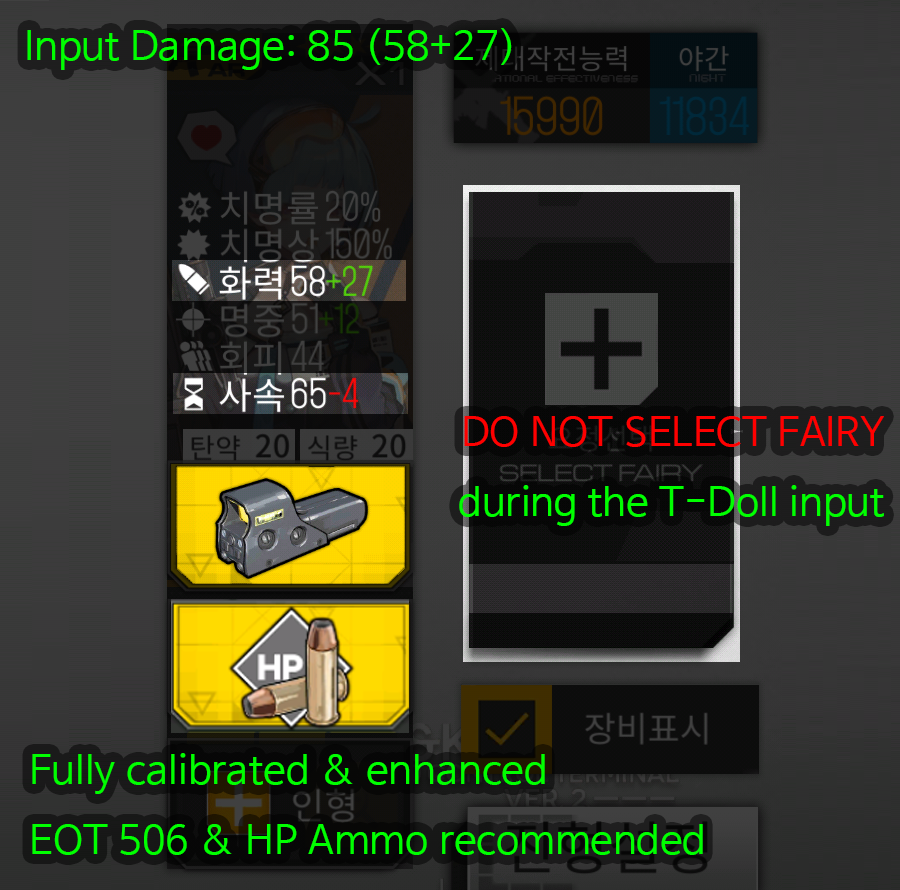
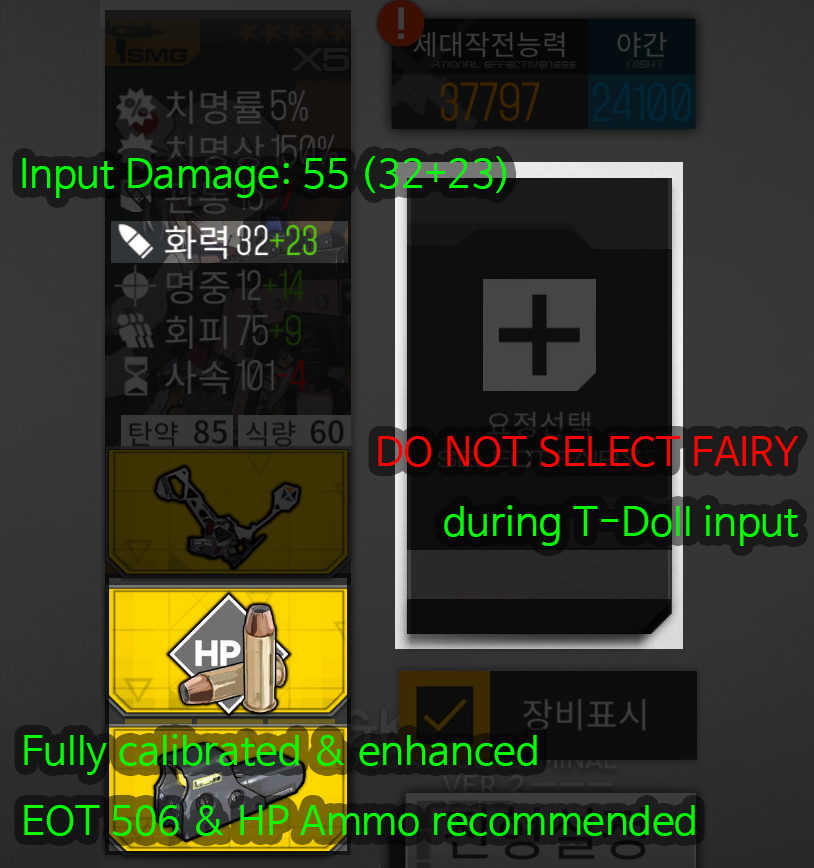
Vector_ADD_HELP

diff --git a/lang/lang_vec.js b/lang/lang_vec.js
@@ -39,7 +39,11 @@ var languagepack_vec =
                 "q1":"Q. 진형이 ㄷ 모양인가?",
                 "a1":"A. HG, SMG, AR, RF 배치 시, ㄷ 진형으로 고정<br>SG MG RF(미채 착용) 배치 시, p/b 진형도 가능<br>",
                 "q2":"Q. 전투 자동스킬을 켰는가?",
-                "a2":"A. AUTO 자동스킬 활성화를 안하면 벡터가 화염병을 던지지 않는다<br>"
+                "a2":"A. AUTO 자동스킬 활성화를 안하면 벡터가 화염병을 던지지 않는다<br>",
+                "q3":"Q. 화력 버프를 가장 쉽게 줄 수 있는 방법은?",
+                "a3":"A. 흥국이(40%)/개조흥국이(45%) 7번, 벡터 8번 배치<br>",
+                "q4":"Q. 꼭 벡터로만 가능한가?",
+                "a4":"A. 현 시점에서의 대체재로는 2개조 UZI 추천<br>"
             }
         },
         "ja":{
@@ -79,10 +83,14 @@ var languagepack_vec =
             },
             "qna":{
                 "title":"トラブルシューティング",
-                "q1":"Q. 陣形はCになっていますか？",
+                "q1":"Q. 陣形はCになっていますか?",
                 "a1":"A. HG,SMG,AR,RF配置時の陣形は必ずCに。<br>SG,MG,RF(カモフラージュマント着用)配置時の陣形はpやbも可能<br>",
-                "q2":"Q. 人形のスキル自動発動をONにしていますか？",
-                "a2":"A. Vectorはスキルによりグレネードを発射して敵を倒します。スキル自動発動をONにしましょう<br>"
+                "q2":"Q. 人形のスキル自動発動をONにしていますか?",
+                "a2":"A. Vectorはスキルによりグレネードを発射して敵を倒します。スキル自動発動をONにしましょう<br>",
+                "q3":"Q. 最も簡単な火力上昇の方法?",
+                "a3":"A. 416(40%)/416 MOD(45%)は7番に, Vectorは8番に4番配置<br>",
+                "q4":"Q. Vectorにしかできないか?",
+                "a4":"A. Micro UZI MOD 配置<br>"
             }
         },
         "en":{
@@ -124,7 +132,11 @@ var languagepack_vec =
                 "q1":"DID YOU USE C Formation?",
                 "a1":"MUST use C formation with HG, SMG, AR, and RF<br>Able to use p/b formation with SG, MG, RF(with Suit)<br>",
                 "q2":"DID YOU TURN ON AUTOSKILL?",
-                "a2":"IF NOT, SHE WILL NOT FIRE GRENADE<br>"
+                "a2":"IF NOT, SHE WILL NOT FIRE GRENADE<br>",
+                "q3":"EASIEST WAY FOR DMG. BUFF?",
+                "a3":"HK416(40%)/HK416 MOD1(45%) on NUM7, Vector on NUM8<br>",
+                "q4":"ONLY FOR VECTOR?",
+                "a4":"UZI MOD2 is recommended nowtime<br>"
             }
         }
     };

diff --git a/vec.html b/vec.html
@@ -151,6 +151,10 @@
             <div id="btn-help-1a" class="hide" style="margin-bottom:5px; padding:5px; text-align:left; width:100%;" ><span id="btn-help-1t" ></span><img src="img/vec/formation.png" style="width:100%;"></div>
             <div id="btn-help-2" class="btn btn-xs btn-primary hide" style="text-align:left; width:100%; margin-bottom:1px;" onclick="btn_toggleHelp(2)"></div>
             <div id="btn-help-2a" class="hide" style="margin-bottom:5px; padding:5px; text-align:left; width:100%;" ><span id="btn-help-2t" ></span><img src="img/vec/auto.png"></div>
+            <div id="btn-help-3" class="btn btn-xs btn-primary hide" style="text-align:left; width:100%; margin-bottom:1px;" onclick="btn_toggleHelp(3)"></div>
+            <div id="btn-help-3a" class="hide" style="margin-bottom:5px; padding:5px; text-align:left; width:100%;" ><span id="btn-help-3t" ></span><img src="img/vec/vec_help3.png" style="width:40%;"></div>
+            <div id="btn-help-4" class="btn btn-xs btn-primary hide" style="text-align:left; width:100%; margin-bottom:1px;" onclick="btn_toggleHelp(4)"></div>
+            <div id="btn-help-4a" class="hide" style="margin-bottom:5px; padding:5px; text-align:left; width:100%;" ><span id="btn-help-4t" ></span><img src="img/vec/vec_help4.png" style="width:40%;"></div>
         </div>
     </div>
     <div style="font-size:12px;">

diff --git a/js/logistics.js b/js/logistics.js
@@ -1,4 +1,4 @@
-var lastUpdate      = '2020-05-27 12:05'
+var lastUpdate      = '2020-05-28 12:00'
 var version         = parseInt(lastUpdate.replace(/[^0-9]/g,''));
 
 var updateDate      = 'Changelog (' + lastUpdate + ')';
@@ -7,6 +7,7 @@ var updateString    =       '- Added <i>13-4 Vector Calculator</i>. (<font style
                     +   '<br>- Modified <i>8-1n ZAS Calculator</i>. (<font style="color:blue;"><a href="https://tempkaridc.github.io/gf/zas.html" target="_blank">Link</a></font>)'
                     +   '<br>- Bugfix #1: Contract error on 13-1 (repair to quick production)'
                     +   '<br>- Bugfix #2: Recover area time when out of <i>Check Cycle</i> function'
+                    +   '<br>- Bugfix #3: Change T-Doll Input Guide image of Vector Calculator'
                     ;
 
 var updateImage     = false;
@@ -18,8 +19,6 @@ var langPack;
 var objectList      = new Array();
 var selectedList    = new Array();
 var sync_calcList   = new Array();
-
-var rankTable       = new Array();
 
 //var sortToggle      = [0,0,0,0,0,0,0,0,0,0,0,0];            // 0:none 1:asc 2:desc //지역, 인탄식부, 합계, 시간, 계약서5종 = 12
 var areaToggle      = [1,1,1,1,1,1,1,1,1,1,1,1,1,1];        // [14] 0 ~ 13지역

diff --git a/js/vec.js b/js/vec.js
@@ -1,6 +1,7 @@
 /*
  * Reference #1: https://gall.dcinside.com/mgallery/board/view/?id=micateam&no=1530572
  * Reference #2: https://gall.dcinside.com/mgallery/board/view/?id=micateam&no=1531236
+ * Reference #3: https://gall.dcinside.com/mgallery/board/view/?id=micateam&no=1535521
  */
 
 var selLang         = 'ko';
@@ -284,7 +285,7 @@ function setLanguage(){
 
     $('#btn-help').text(langPack.qna.title);
 
-    for (let i = 1; i <= 2; i++) {
+    for (let i = 1; i <= 4; i++) {
         $('#btn-help-'+i).text(langPack.qna['q'+ i]);
         $('#btn-help-'+i+'t').html(langPack.qna['a'+ i]);
     }
